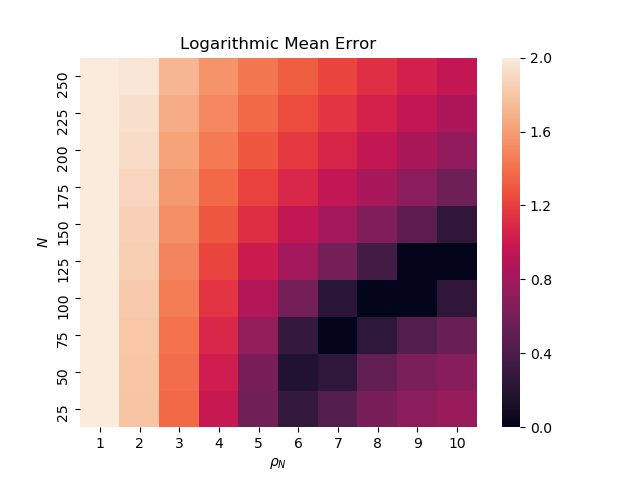
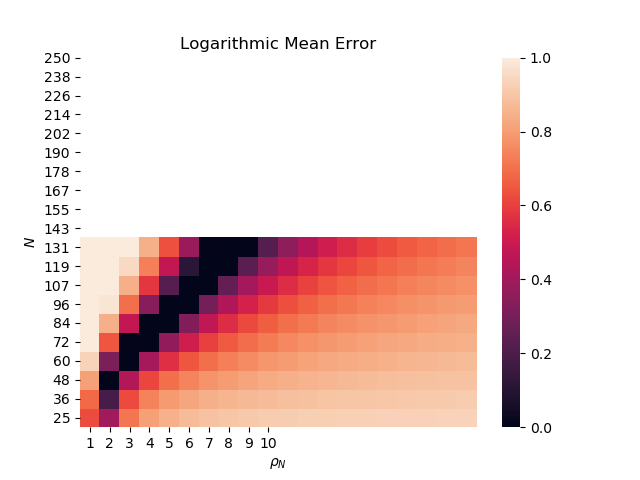
forslag til SolarSystem

diff --git a/Project3/SolarSystem_copy.py b/Project3/SolarSystem_copy.py
@@ -1,0 +1,42 @@
+import os, sys 
+
+import pandas as pd
+import numpy  as np
+
+class SolarSystem:
+    def __init__(self, names):
+        """
+        Initialize the solar system with the masses of the sun and planets.
+        names: A list of strings with names of the planets to be considered.
+        """
+
+        # Setting index_col=0 to easier work with the DataFrame
+        filename = '/Data/planet_data.csv'
+        cwd      = os.getcwd()
+        fn       = cwd + filename
+        nanDict  = {}
+        Data     = pd.read_csv(fn, header=0, skiprows=0, index_col=0, na_values=nanDict)
+
+        # Creating a new DataFrame only containing input planets: 'names'
+        Planets = Data.loc[names].reset_index()
+
+        print('\nOur Solar System now has the following planets:\n')
+        print(Planets)
+
+        # Create lists of Mass of Dist values
+        Mass = Planets.eval(Planets['Mass']).tolist()
+        Dist = Planets['Distance to the Sun'].values.astype(float).tolist()
+
+        our_system      = np.swapaxes(np.array([Mass, Dist]), 0, 1)
+        self.our_system = our_system
+
+    def __call__(self):
+        """
+        Returns masses and initial conditions of the sun and planets.
+        """
+        return self.our_system
+
+
+if __name__ == '__main__':
+    ex3b = SolarSystem(["Earth", "Jupiter", "Mercury", "Saturn"])
+    print('\nrow: planets, columns: mass, distance:\n'); print(ex3b())

diff --git a/Project3/SolarSystem.py b/Project3/SolarSystem.py
@@ -1,6 +1,7 @@
-import os
+import os, sys 
+
 import pandas as pd
-import numpy as np
+import numpy  as np
 
 class SolarSystem:
     def __init__(self, names):
@@ -9,18 +10,19 @@ class SolarSystem:
         names: A list of strings with names of the planets to be considered.
         """
 
-        filename = '\Data\planet_data.csv'
+        filename = '/Data/planet_data.csv'
         cwd      = os.getcwd()
         fn       = cwd + filename
         nanDict  = {}
         Data     = pd.read_csv(fn, header=0, skiprows=0, index_col=False, na_values=nanDict)
 
-        Planet   = Data["Planet"].values  #names of planets
-        Mass     = Data["Mass"].values    #[kg], masses
-        Dist     = Data["Distance to the Sun"].values  #[AU], distance from Sun
+        Planet   = Data["Planet"].values  # names of planets
+        Mass     = Data["Mass"].values   # [kg], masses
+        Dist     = Data["Distance to the Sun"].values  # [AU], distance from Sun
 
-        N = len(names) #nr of planets
-        our_system = np.zeros([N, 2])  #row: planets, columns: name, mass, distance
+        N = len(names) # nr of planets
+        our_system = np.zeros([N, 2])  # row: planets, columns: name, mass, distance
+
 
         index = [] #indexes of planets
         for i in range(len(names)):

diff --git a/Project2/prosjekt2.py b/Project2/prosjekt2.py
@@ -268,7 +268,7 @@ def N_iterations(N_list, rho0, rhoN):
 	df.to_csv('Results/cpu_times.txt', index=None, sep='\t', mode='a')
 
 
-	fit = np.polyfit(N_list, it_list, 2)
+	fit = np.polyfit(N_list, it_list, 3)
 	print(fit)
 	plt.plot(N_list, it_list, label=(r'%.2f $N^2$' %fit[0]))
 	plt.xlabel('Size of a NxN matrix', fontsize=15)
@@ -342,7 +342,7 @@ if __name__ == "__main__":
 	n_electrons        = args.e
 
 	#######################
-	optimal_values = False  # = True: finding optimal values
+	optimal_values = True  # = True: finding optimal values
 	#######################
 
 	if BucklingBeam:
@@ -359,7 +359,7 @@ if __name__ == "__main__":
 
 		else:
 
-			N 	   	 = 50             	# matrix dimension
+			N 	   	 = 80             	# matrix dimension
 			max_it 	 = 2*N**2     		# max iterations
 			h      	 = (rhoN-rho0)/N   	# step length (h = rhoN/(N+1))
 			diag     = 2/h**2   		# diagonal elements
@@ -390,7 +390,7 @@ if __name__ == "__main__":
 			if optimal_values:
 				print('\nFinding optimal N and rho max\n')
 				rhoN_list = np.linspace(1,10,10).astype(int)
-				N_list = np.linspace(25, 250, 10).astype(int)
+				N_list = np.linspace(25, 250, 20).astype(int)
 				N_rho(N_list, rho0, rhoN_list, h, diag, non_diag)
 				sys.exit()
 
